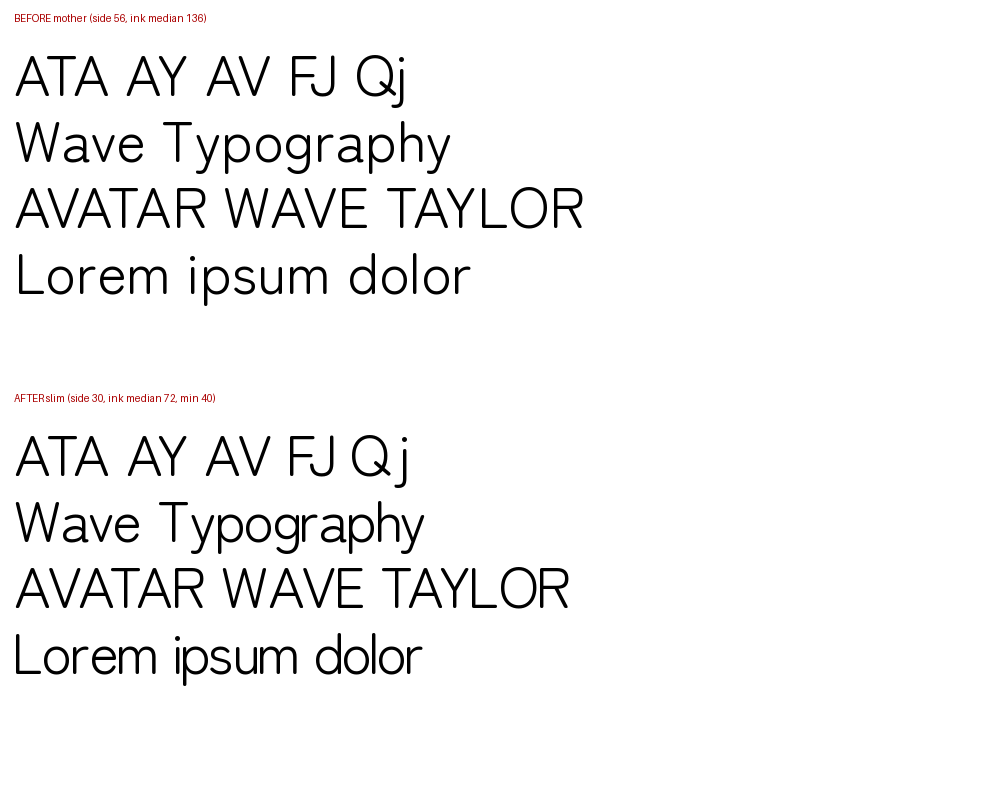
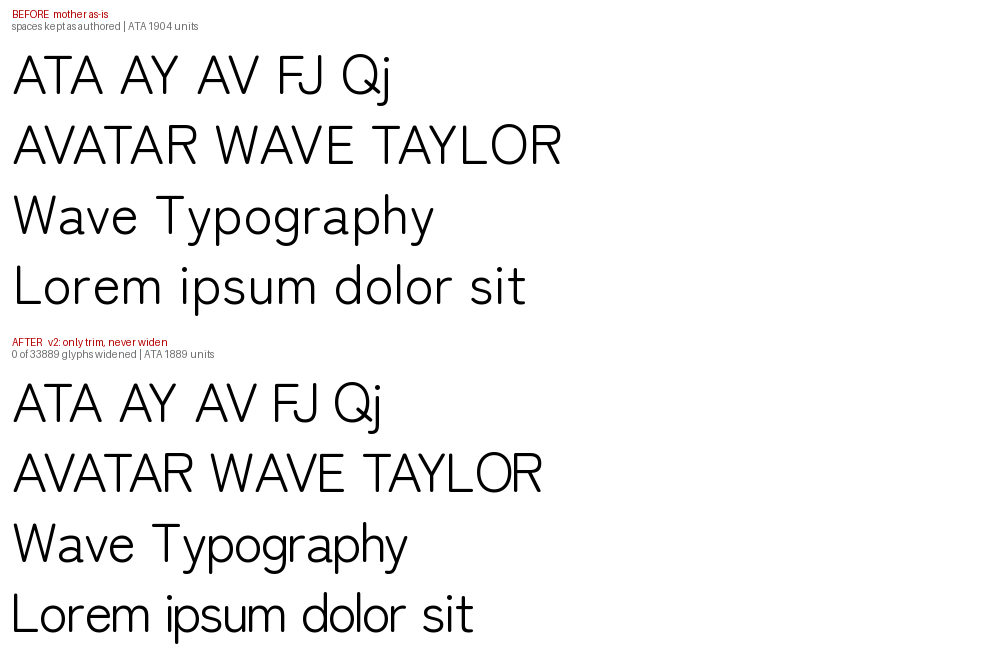
修复: 拉丁留白只压不撑，实测 0/33889 字形变宽
上一版把两侧留白都强行拉到 target：
    offset = target - xmin
    new_aw = int(xmax - xmin + 2 * target)
    hmtx[gname] = (new_aw, target)
后果实测：A 原左 27 右 21 被撑到 30/30，advance 653→665(+12)；
T 原 37/38 被压到 30，advance 598→583(-15)。ATA 净 +9，越压越宽。

判据改为只减不增：new = min(old, target)，且 new_aw = min(cand, old_aw)。
实测 .evidence/work/mother_v2.ttf：
  advance 变宽的字形 0 / 33889
  ATA 1904 → 1889；Q 732→715；j 235→190
  AVATAR WAVE TAYLOR 10838 → 10473
  Wave Typography    7888 → 7410
  kern 表 9841 条，本次重写 24 条（真实墨距下限 40）

diff --git a/tools/slim_mother.py b/tools/slim_mother.py
@@ -156,7 +156,16 @@ def main() -> int:
                 paths = cleaned
         pts_after += sum(len(c) for c in paths)
 
-        # 拉丁：把左右空压到 target（只平移字形，改 advance 与 lsb）
+        # 拉丁：**只压富余，不补留白**。两侧各设一个上限 target，超过才收到 target；
+        #   不足的原样保留；负值（j 的左出、Q 的尾）一律不碰。
+        #
+        # ★ 2026-11-21 修正。上一版写的是 `new_aw = xmax-xmin+2*target`、`lsb = target`，
+        #   即「两侧都强行拉到 target」。后果实测：A 原本左 27 右 21，被撑到 30/30，
+        #   advance 653 → 665（+12）；ATA 总宽 1904 → 1913，**越压越宽**。
+        #   根因是斜边字母（A V W Y）与圆形（Q）的墨迹本身让出了视觉空白，
+        #   留白本来就该小；把全局一个常数当目标，等于把该小的撑大、把该大的压扁。
+        #   判据改成「只减不增」：new = min(old, target) if old > 0 else old。
+        #   这样任意字形的 advance 恒 <= 原值，可用断言硬保证。
         offset = 0
         new_aw = None
         if gname in is_latin_any and target:
@@ -165,11 +174,19 @@ def main() -> int:
             if xs:
                 xmin, xmax = min(xs), max(xs)
                 old_aw, old_lsb = hmtx[gname]
+                old_rsb = old_aw - xmax
                 gaps_before.append(old_lsb)
-                offset = target - xmin
-                new_aw = int(xmax - xmin + 2 * target)
-                gaps_after.append(target)
-                n_regap += 1
+                # 只在富余过大时收；负值和本来就窄的保持原样
+                new_lsb = min(old_lsb, target) if old_lsb > target else old_lsb
+                new_rsb = min(old_rsb, target) if old_rsb > target else old_rsb
+                offset = new_lsb - xmin
+                cand = int(round(new_lsb + (xmax - xmin) + new_rsb))
+                new_aw = min(cand, old_aw)          # 硬保证：绝不加宽
+                gaps_after.append(new_lsb)
+                if new_aw != old_aw or offset:
+                    n_regap += 1
+                else:
+                    new_aw = None
         # ★ 只重建「真的改了」的字形。2026-11-21 实测教训：无条件重建会把全字库点数
         #   从 6,844,184 涨到 6,844,485（+301）——TTGlyphPen 重画会补入隐含的 on-curve 点，
         #   而且复合字形被展平成简单字形。删掉的 226 个点还不够补回去的。
@@ -177,7 +194,8 @@ def main() -> int:
         if removed_here or offset:
             glyf[gname] = to_glyph(paths, offset)
         if new_aw is not None:
-            hmtx[gname] = (new_aw, target)
+            # lsb 必须等于「新原点下的 xMin」，不是 target
+            hmtx[gname] = (new_aw, int(round(xmin + offset)))
 
     print(f"点数 {pts_before} → {pts_after}（删 {pts_before - pts_after}，"
           f"{(pts_before - pts_after) / max(pts_before,1) * 100:.2f}%），涉及 {n_dedup} 个字形")
